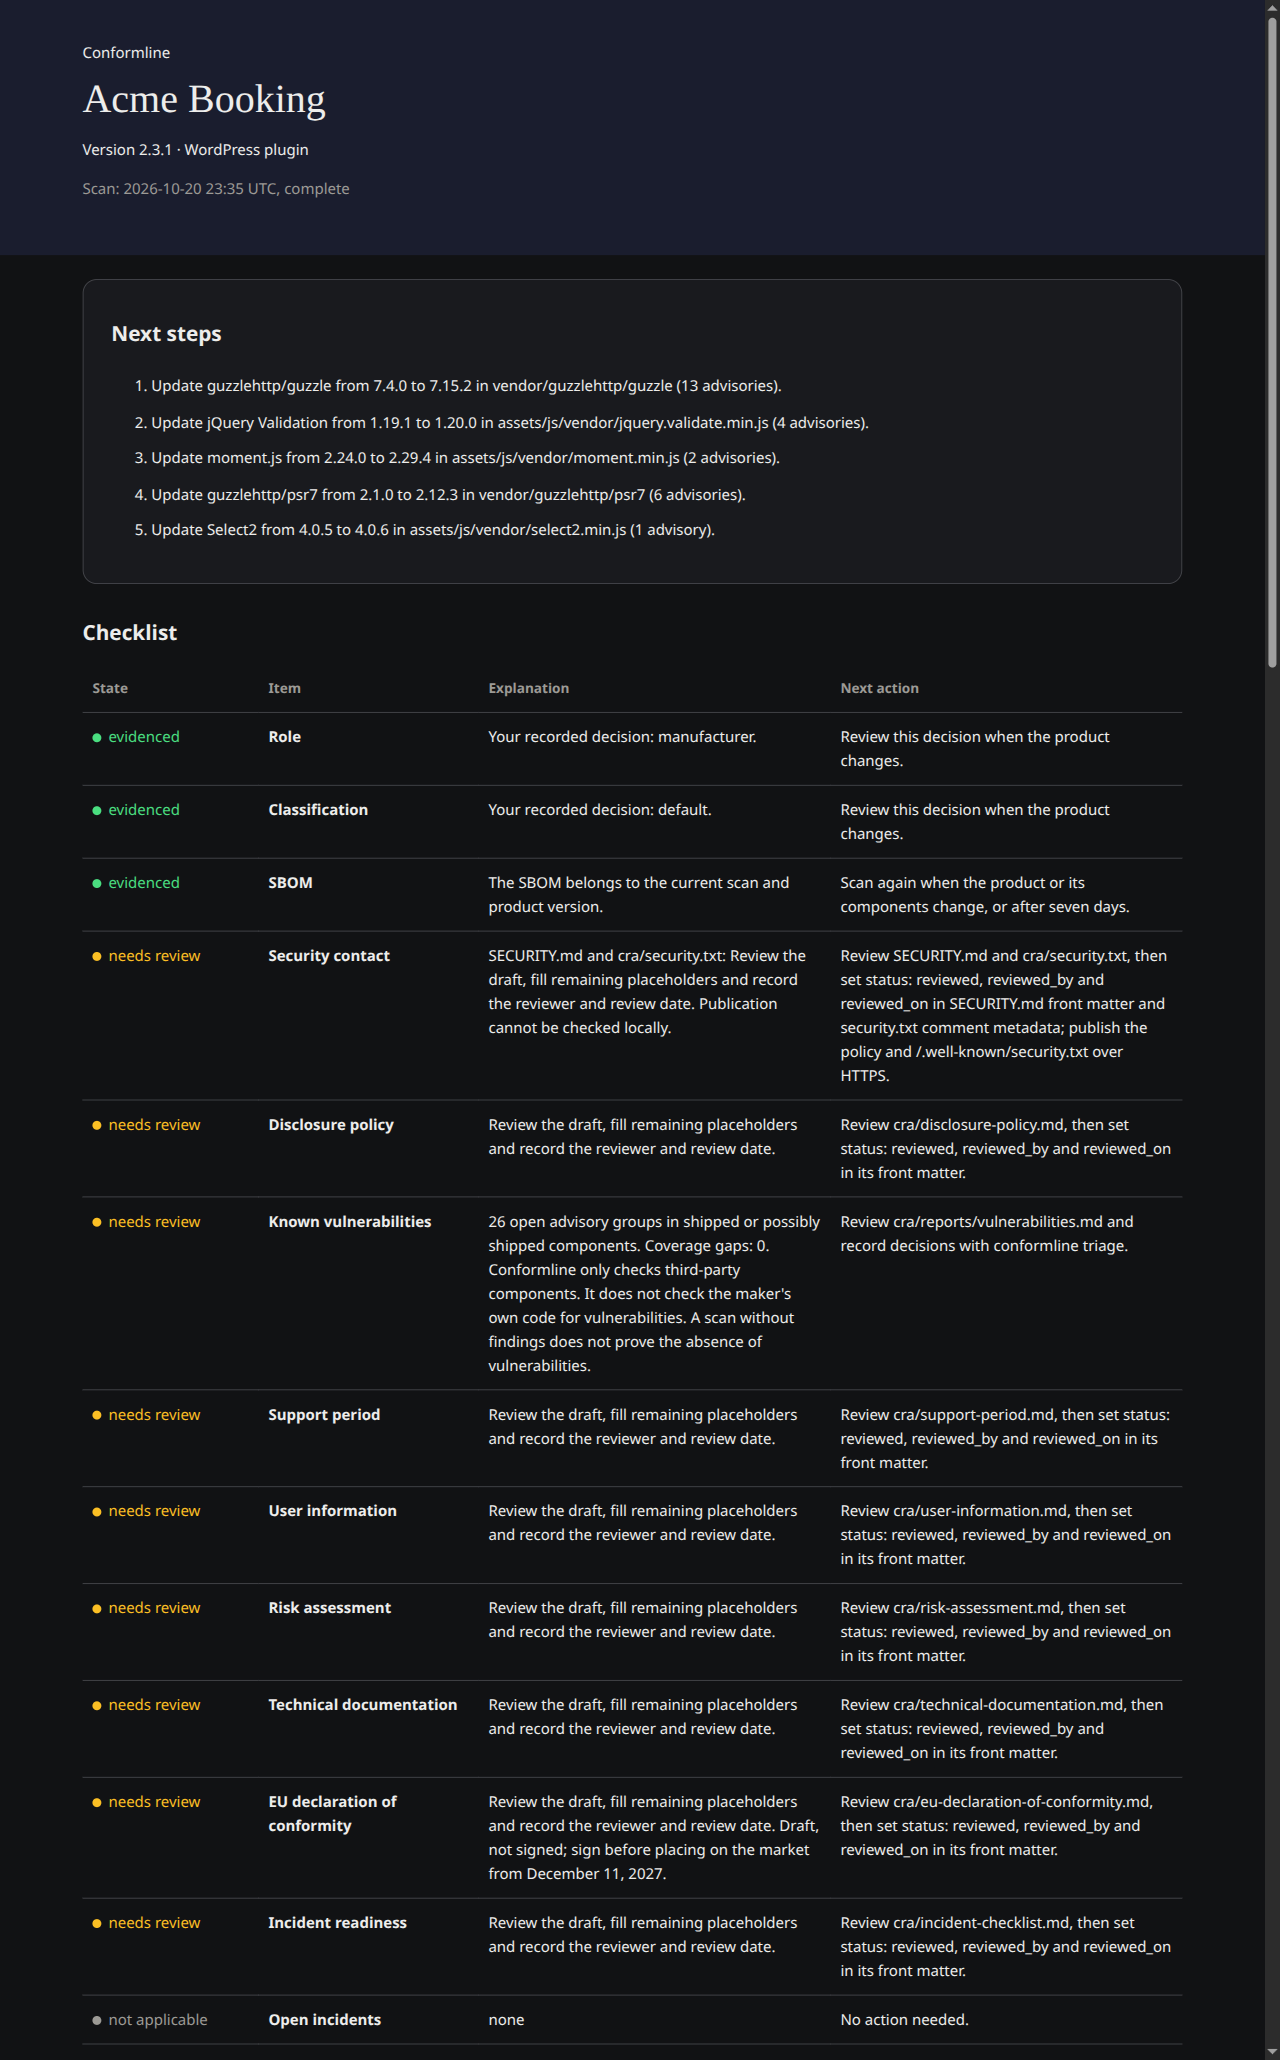
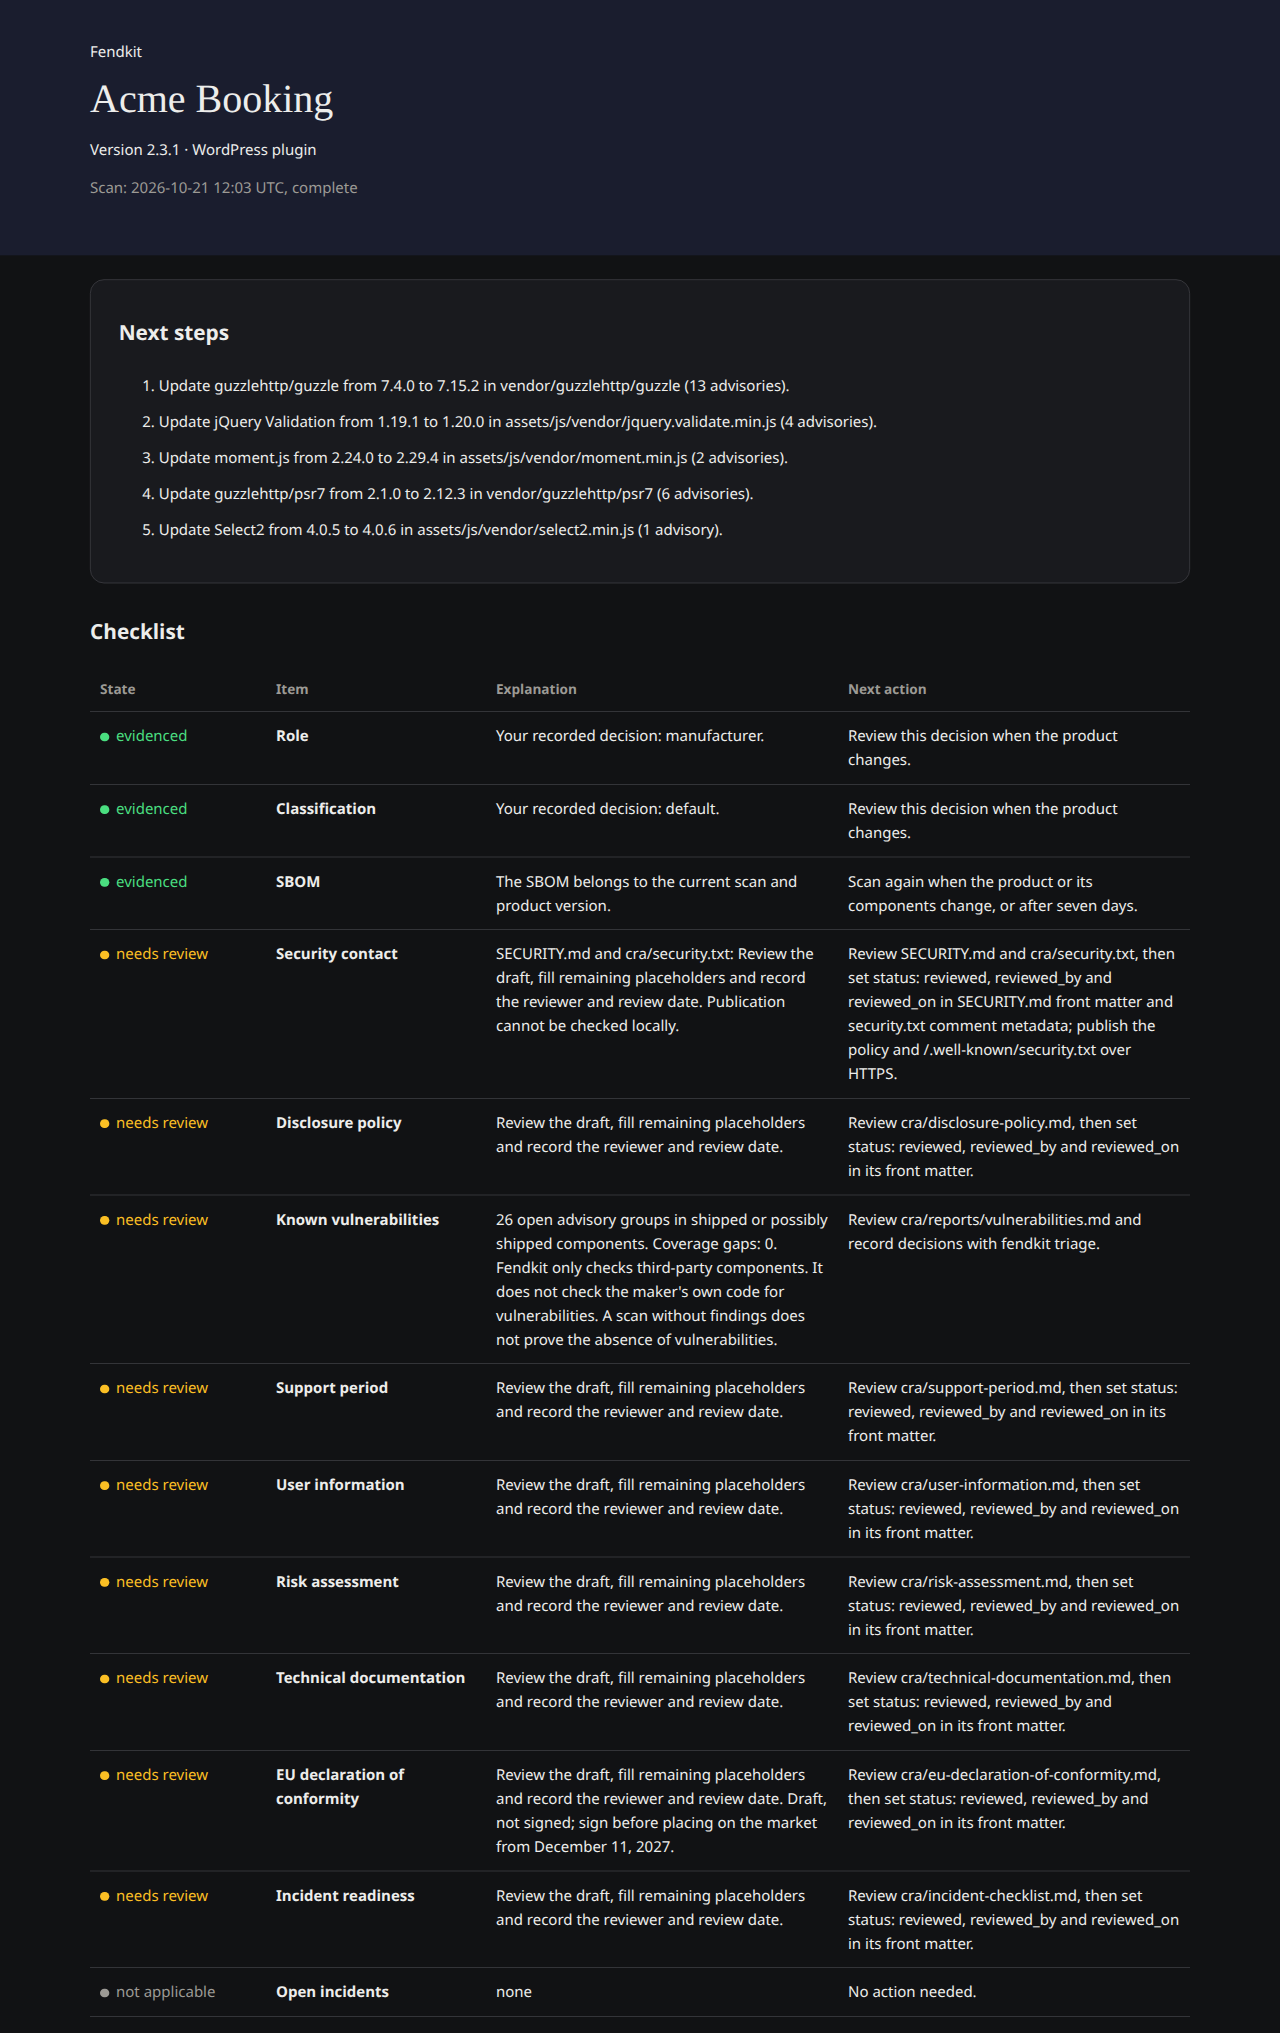
Refresh the demo fixture and README images with Fendkit branding

diff --git a/internal/demo/demo_test.go b/internal/demo/demo_test.go
@@ -1,6 +1,7 @@
 package demo
 
 import (
+	"archive/zip"
 	"bytes"
 	"io/fs"
 	"os"
@@ -8,6 +9,26 @@ import (
 	"testing"
 	"time"
 )
+
+func TestReleasePluginHeaderMatchesSource(t *testing.T) {
+	release, err := zip.OpenReader("../../testdata/wp-plugin/dist/acme-booking-2.3.1.zip")
+	if err != nil {
+		t.Fatal(err)
+	}
+	defer release.Close()
+	header := "acme-booking.php"
+	want, err := os.ReadFile(filepath.Join("../../testdata/wp-plugin/acme-booking", header))
+	if err != nil {
+		t.Fatal(err)
+	}
+	got, err := fs.ReadFile(release, header)
+	if err != nil {
+		t.Fatal(err)
+	}
+	if !bytes.Equal(got, want) {
+		t.Fatal("release plugin header is stale; update it from the source fixture and run go generate ./internal/demo")
+	}
+}
 
 func TestEmbeddedFixtureIsCurrent(t *testing.T) {
 	source := os.DirFS("../../testdata/wp-plugin")

diff --git a/README.md b/README.md
@@ -43,9 +43,9 @@ Live lookups from the demo, captured on 21 October 2026 (Europe/Berlin).
 The scan time shown is in UTC. Both themes show the same complete scan;
 drafts still need review.
 
-![Acme Booking live demo in light theme, showing complete scan evidence, Guzzle, jQuery Validation and moment.js updates, and the full thirteen-item checklist](docs/media/status-light.png)
+![Fendkit live demo in light theme, with five update steps for Guzzle, jQuery Validation, moment.js, PSR-7 and Select2, and all 13 checklist rows](docs/media/status-light.png)
 
-![The same complete live demo in dark theme, with all five next steps and the full checklist including draft review actions](docs/media/status-dark.png)
+![The same complete Fendkit demo in dark theme, showing all five update steps, 26 open advisory groups in shipped or possibly shipped components and 13 checklist rows including draft review actions](docs/media/status-dark.png)
 
 To try without vulnerability lookups:
 
@@ -91,10 +91,10 @@ Exit 0 does not mean every draft has been reviewed.
 See [all status rules](docs/status-items.md).
 
 A full captured live demo check (21 October 2026 Europe/Berlin,
-20 October 2026 UTC), from the same run as the images:
+21 October 2026 UTC), from the same run as the images:
 
 ```text
-Fendkit  Acme Booking 2.3.1 (WordPress plugin)   scan: 2026-10-20 23:35 UTC, complete
+Fendkit  Acme Booking 2.3.1 (WordPress plugin)   scan: 2026-10-21 12:03 UTC, complete
 
 Next
   1. Update guzzlehttp/guzzle from 7.4.0 to 7.15.2 in vendor/guzzlehttp/guzzle (13 advisories).
